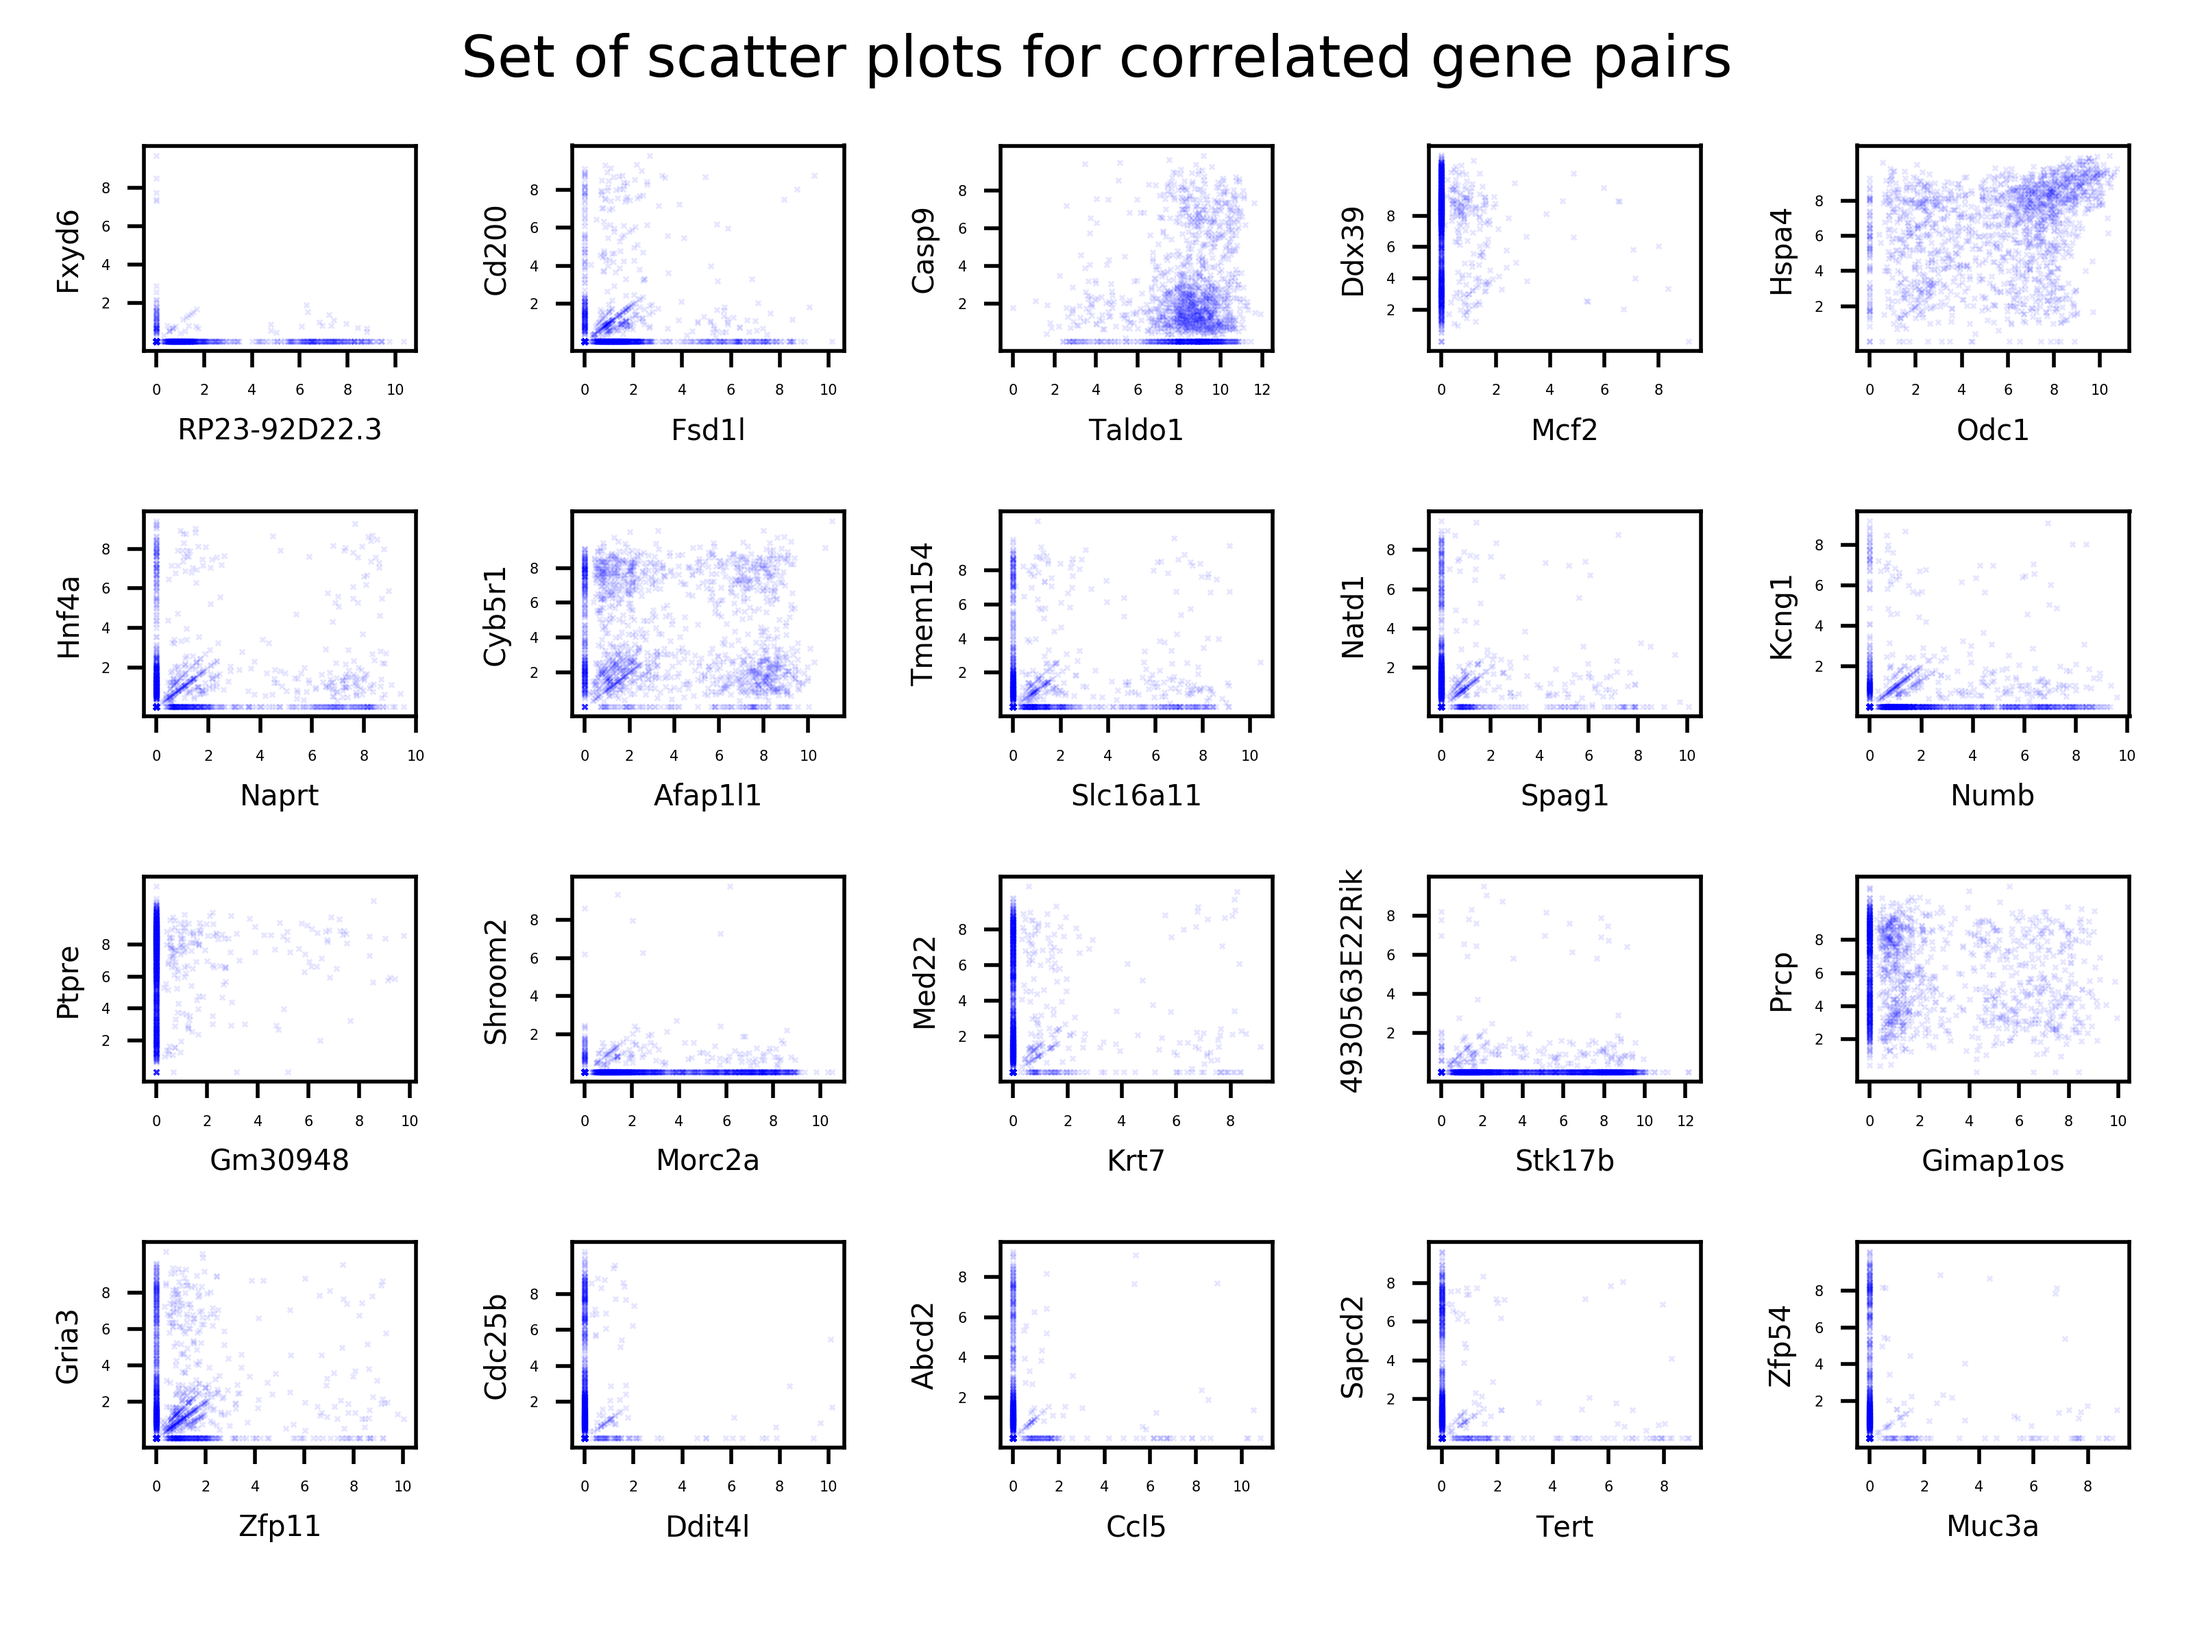
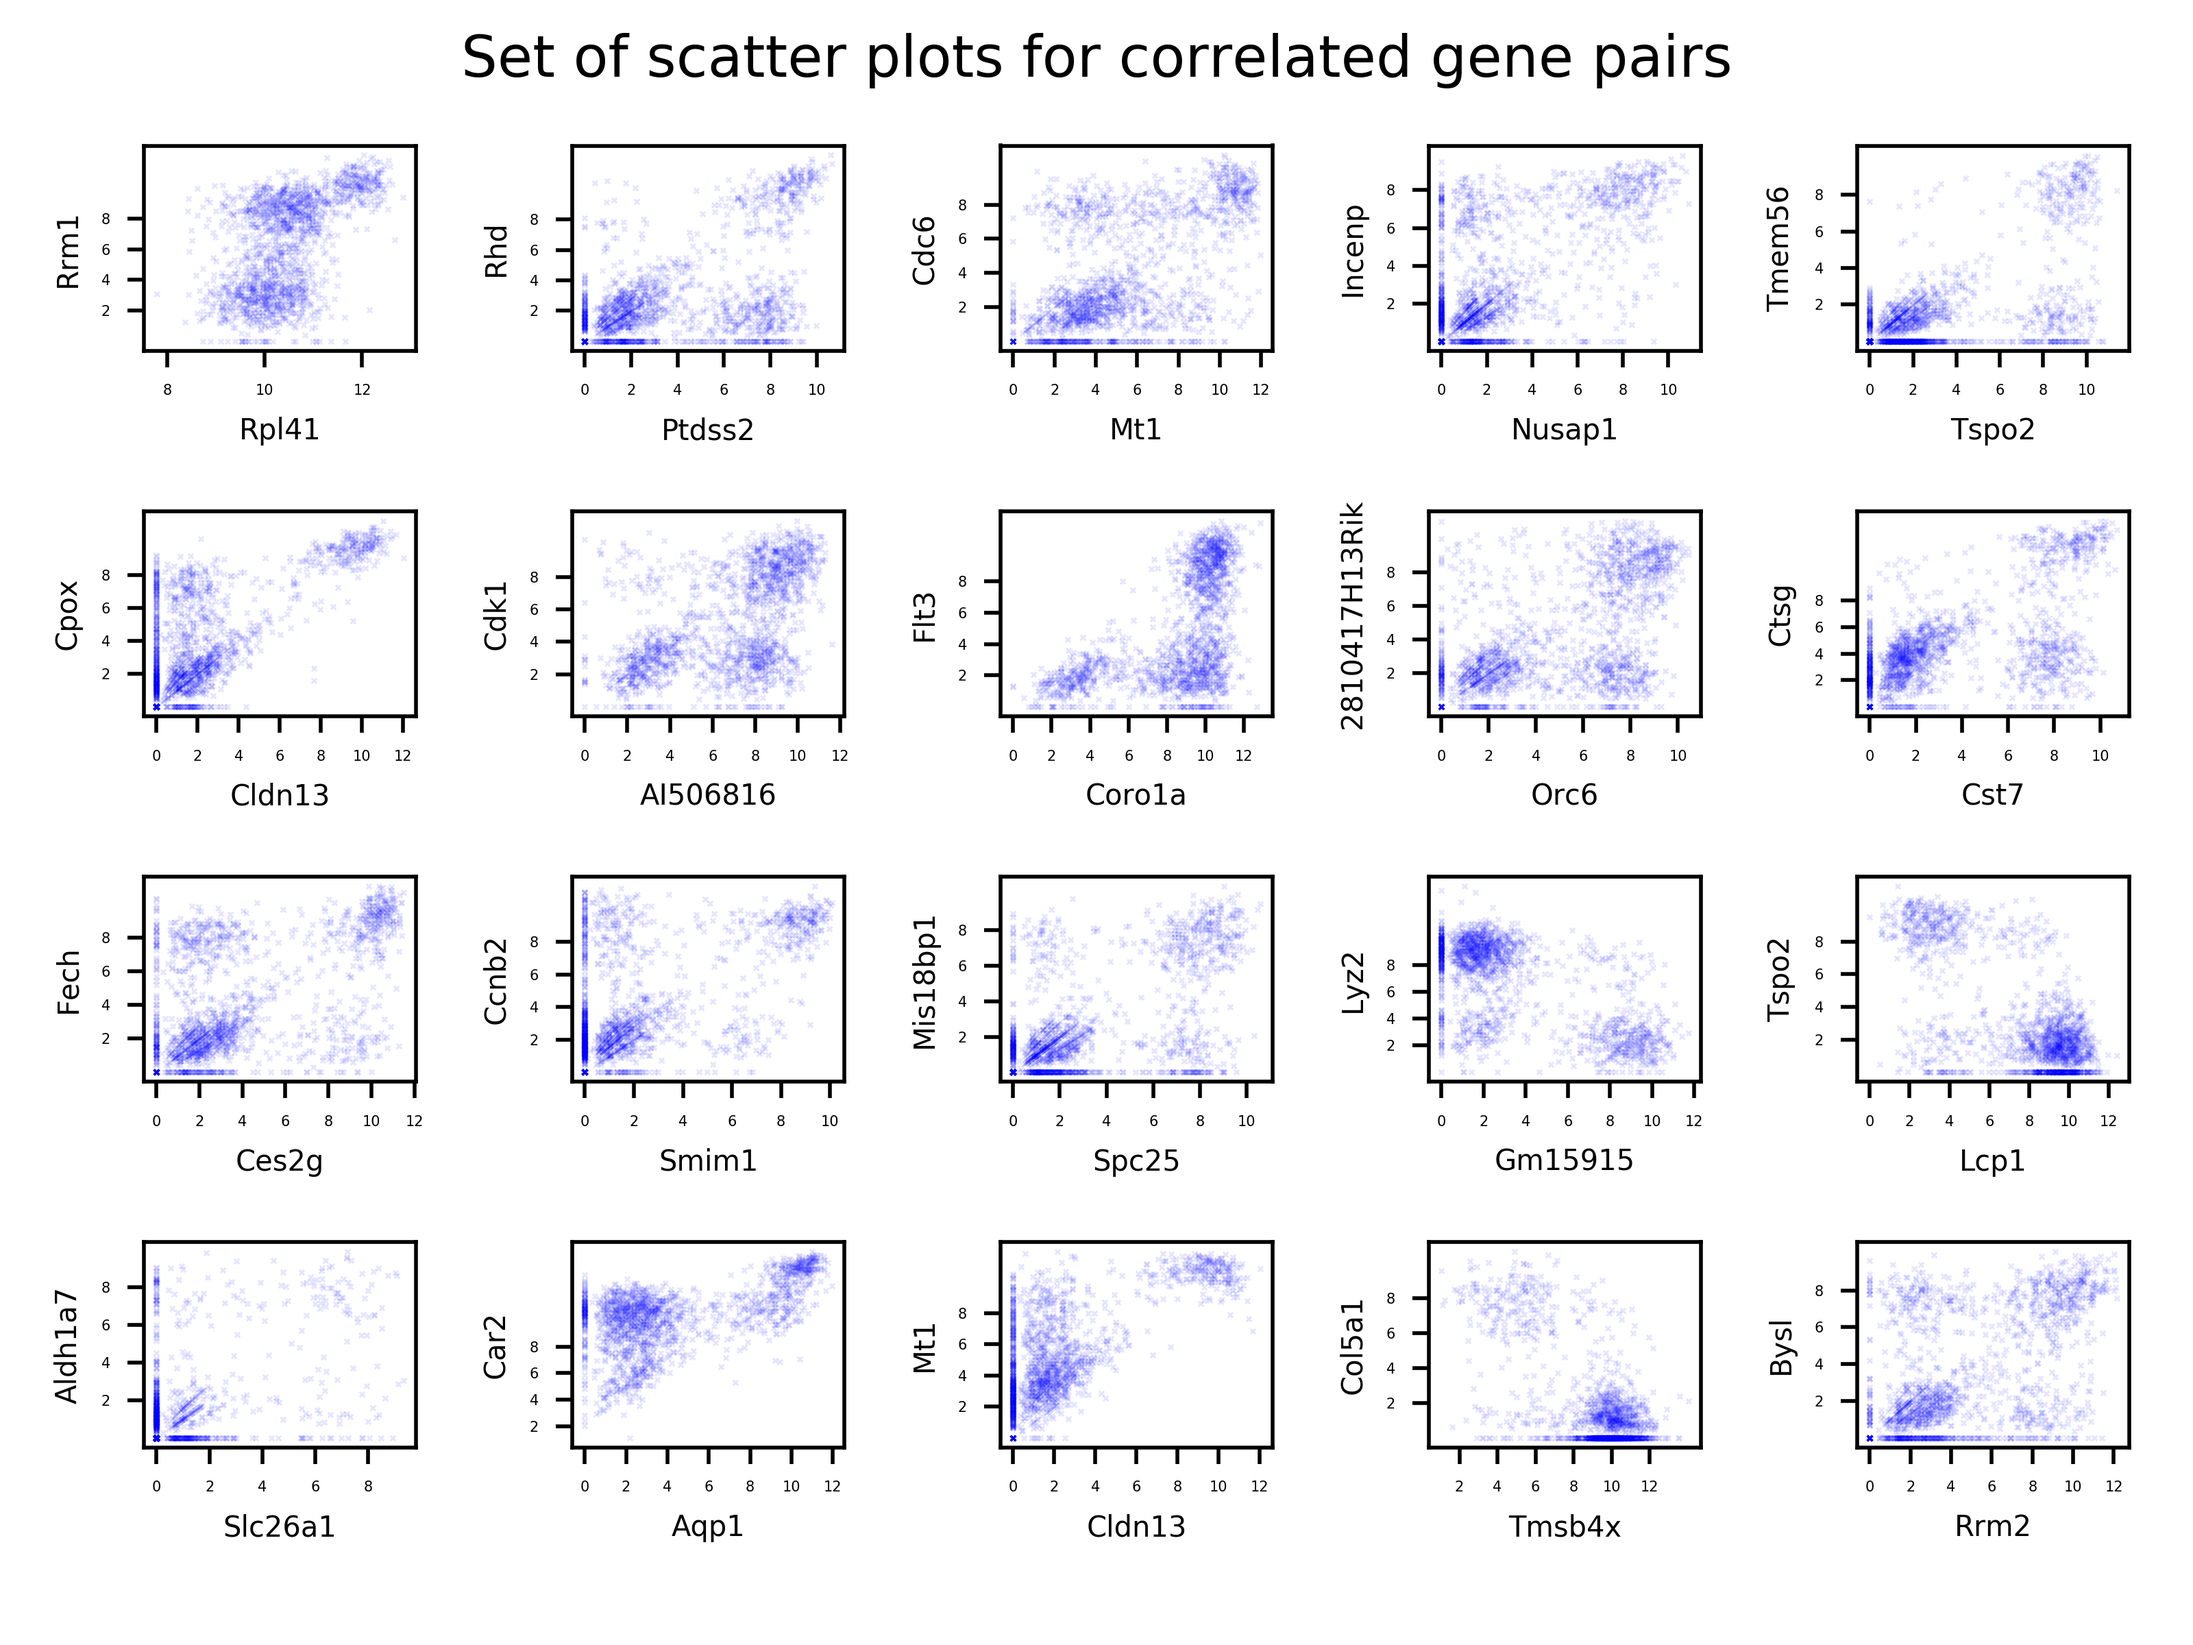
transfer

diff --git a/figures.py b/figures.py
@@ -16,10 +16,11 @@ from sklearn.cluster import AgglomerativeClustering
 counts = np.load('counts.npy')
 header = np.load('header_backup.npy')
 correlations = np.corrcoef(counts.T)
-
+correlations[np.identity(correlations.shape[0],dtype=bool)]=0
 
 clustered_counts = np.load('clustered_counts.npy')
 clustered_header = np.load('clustered_header.npy')
+
 
 # plt.figure("counts_frequency")
 # plt.hist(counts.ravel(),bins=101,log=True)
@@ -149,7 +150,7 @@ plt.figure("random_correlates")
 plt.suptitle("Set of scatter plots for correlated gene pairs")
 plt.xlabel("Log2 gene expression values")
 plt.ylabel("Frequency")
-x, y = np.where(np.abs(correlations) > 0)
+x, y = np.where(np.abs(correlations) > .5)
 for i, pick in enumerate(np.random.randint(x.shape[0], size=20)):
     plt.subplot(4,5,i+1)
     plt.xlabel(header[x[pick]],size=6)
